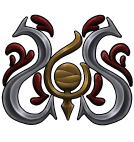
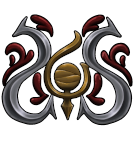
Added new sprite

diff --git a/CHANGELOG.md b/CHANGELOG.md
@@ -1,4 +1,7 @@
 # Changelog
+# 3.1.0
+- Modified quest sprite to have a white background
+
 # 3.0.0
 - Modified to use WishUtil
 - Effects no longer persist while game is paused
